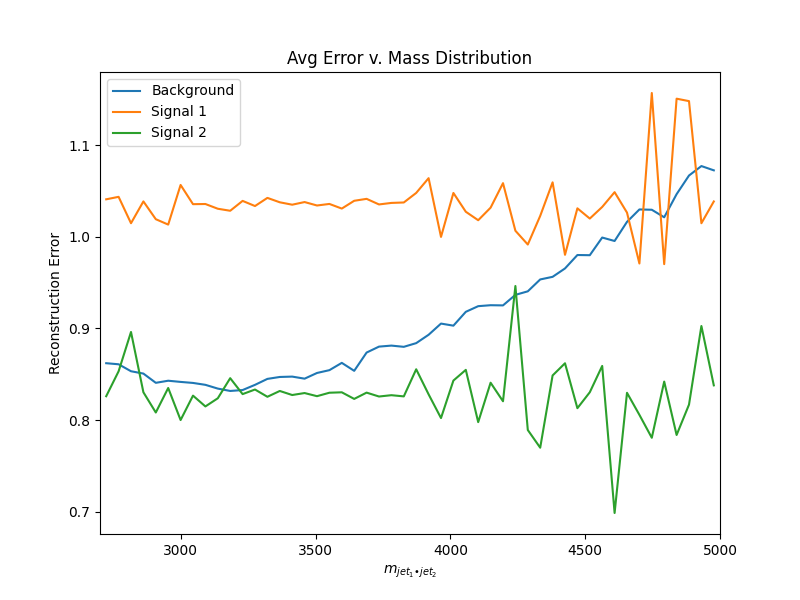
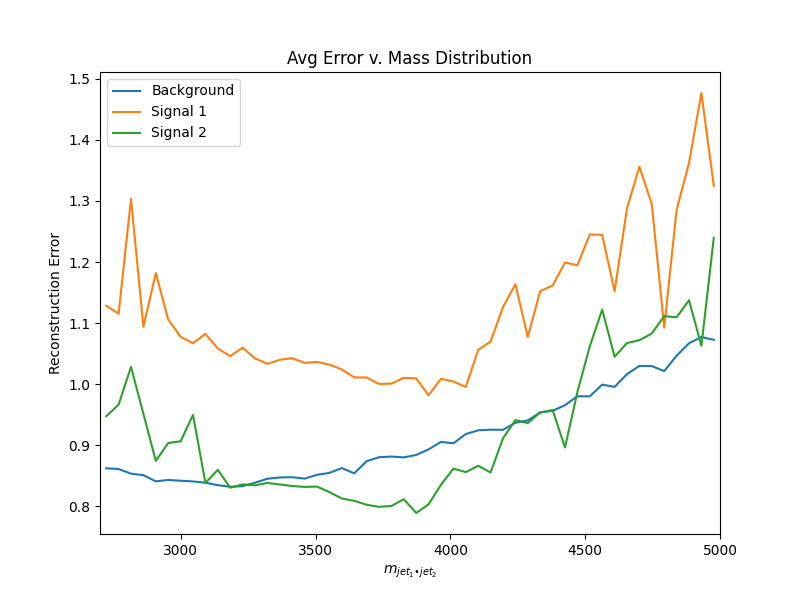
Testing with standard scaling and 84, 14 layer dimensions

diff --git a/test.py b/test.py
@@ -77,9 +77,9 @@ if scale == "minmax":
 elif scale == "standard":
     scaler = StandardScaler()
 
-sample_bkg = bkg[selection].sample(frac=1)
-sample_sig1 = sig1[selection].sample(frac=1)
-sample_sig2 = sig2[selection].sample(frac=1)
+sample_bkg = bkg[selection] #.sample(frac=1)
+sample_sig1 = sig1[selection] #.sample(frac=1)
+sample_sig2 = sig2[selection] #.sample(frac=1)
 
 # Concatenate all datasets for the current column to find the global min and max
 all_data = pd.concat([sample_bkg, sample_sig1, sample_sig2])
